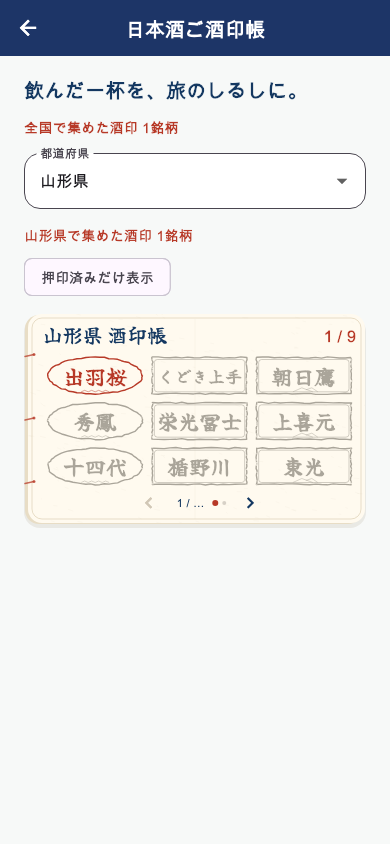
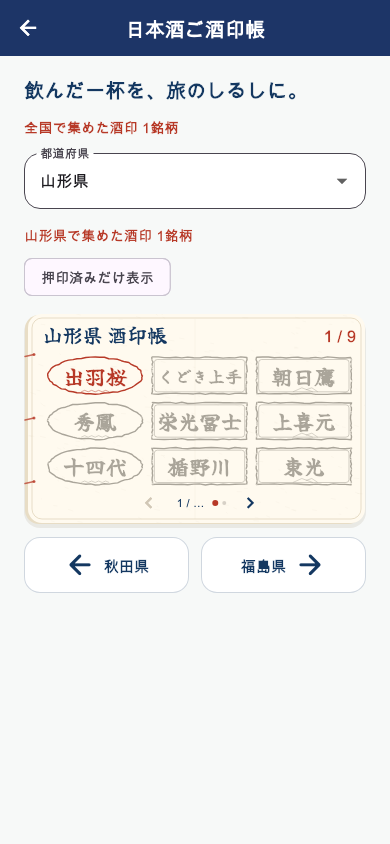
Add adjacent prefecture buttons below the stamp book

diff --git a/lib/presentation/new_home/sake_stamp_book_page.dart b/lib/presentation/new_home/sake_stamp_book_page.dart
@@ -201,11 +201,16 @@ class _SakeStampBookPageState extends State<SakeStampBookPage> {
           if (prefectures == null) {
             return const Center(child: CircularProgressIndicator());
           }
-          final selected = prefectures.firstWhere(
+          final ordered = [...prefectures]
+            ..sort((a, b) => a.code.compareTo(b.code));
+          final selected = ordered.firstWhere(
             (p) => p.code == (_selectedCode ?? widget.initialPrefectureCode),
             orElse: () =>
                 _previewPrefecture(prefectures, progress.brandIdsByPrefecture),
           );
+          final index = ordered.indexWhere((p) => p.code == selected.code);
+          final previous = index > 0 ? ordered[index - 1] : null;
+          final next = index + 1 < ordered.length ? ordered[index + 1] : null;
           final earned =
               progress.brandIdsByPrefecture[selected.code] ?? const {};
           if (_selectedCode != selected.code) {
@@ -288,6 +293,32 @@ class _SakeStampBookPageState extends State<SakeStampBookPage> {
                 recordsReady: ready,
                 onBrandTap: (brand) => _openBrand(context, brand),
               ),
+              Row(
+                children: [
+                  Expanded(
+                    child: _PrefectureStepButton(
+                      key: const ValueKey('stamp-previous-prefecture'),
+                      label:
+                          previous?.label(context) ??
+                          (_english(context) ? 'Previous' : '前の県'),
+                      onPressed: previous == null
+                          ? null
+                          : () => _select(previous.code),
+                    ),
+                  ),
+                  const SizedBox(width: 12),
+                  Expanded(
+                    child: _PrefectureStepButton(
+                      key: const ValueKey('stamp-next-prefecture'),
+                      label:
+                          next?.label(context) ??
+                          (_english(context) ? 'Next' : '次の県'),
+                      forward: true,
+                      onPressed: next == null ? null : () => _select(next.code),
+                    ),
+                  ),
+                ],
+              ),
               if (!ready) legend,
             ],
           );
@@ -322,4 +353,50 @@ class _NationwideStampCount extends StatelessWidget {
       ),
     );
   }
+}
+
+class _PrefectureStepButton extends StatelessWidget {
+  const _PrefectureStepButton({
+    super.key,
+    required this.label,
+    required this.onPressed,
+    this.forward = false,
+  });
+  final String label;
+  final VoidCallback? onPressed;
+  final bool forward;
+
+  @override
+  Widget build(BuildContext context) => OutlinedButton(
+    onPressed: onPressed,
+    style: OutlinedButton.styleFrom(
+      foregroundColor: japanMapNavy,
+      backgroundColor: Colors.white,
+      disabledForegroundColor: const Color(0xFFBAC1C4),
+      side: BorderSide(
+        color: japanMapNavy.withValues(alpha: onPressed == null ? .08 : .2),
+      ),
+      minimumSize: const Size(0, 56),
+      padding: const EdgeInsets.symmetric(horizontal: 12, vertical: 10),
+      shape: RoundedRectangleBorder(borderRadius: BorderRadius.circular(16)),
+      textStyle: Theme.of(context).textTheme.labelLarge?.copyWith(
+        fontSize: 15,
+        fontWeight: FontWeight.bold,
+      ),
+    ),
+    child: Row(
+      mainAxisAlignment: MainAxisAlignment.center,
+      children: [
+        if (!forward) ...[
+          const Icon(Icons.arrow_back_rounded, size: 32),
+          const SizedBox(width: 8),
+        ],
+        Flexible(child: Text(label, textAlign: TextAlign.center)),
+        if (forward) ...[
+          const SizedBox(width: 8),
+          const Icon(Icons.arrow_forward_rounded, size: 32),
+        ],
+      ],
+    ),
+  );
 }

diff --git a/test/presentation/new_home/sake_stamp_book_test.dart b/test/presentation/new_home/sake_stamp_book_test.dart
@@ -306,6 +306,89 @@ void main() {
     expect(tester.takeException(), isNull);
   });
 
+  testWidgets('下の左右ボタンで県ID順に移動し、選択欄・記憶と同期して両端で止まる', (tester) async {
+    final repo = _Catalog();
+    await open(
+      tester,
+      const SakeStampBookPage(initialPrefectureCode: 6),
+      repo: repo,
+      size: const Size(320, 568),
+      scale: 1.5,
+    );
+    final previous = find.byKey(const ValueKey('stamp-previous-prefecture'));
+    final next = find.byKey(const ValueKey('stamp-next-prefecture'));
+    await tester.scrollUntilVisible(
+      previous,
+      160,
+      scrollable: find.byType(Scrollable).first,
+    );
+    await tester.pumpAndSettle();
+    await tester.tap(previous);
+    await tester.pumpAndSettle();
+    expect(repo.codes.last, 5);
+    expect(find.text('秋田県 酒印帳'), findsOneWidget);
+    expect(
+      tester
+          .state<FormFieldState<int>>(
+            find.byKey(const ValueKey('stamp-prefecture-picker')),
+          )
+          .value,
+      5,
+    );
+    await tester.tap(next);
+    await tester.pumpAndSettle();
+    await tester.tap(next);
+    await tester.pumpAndSettle();
+    expect(repo.codes.last, 7);
+    expect(await SakeStampPreferences.lastPrefecture(), 7);
+    expect(tester.takeException(), isNull);
+    await preview(tester, 'prefecture-arrows-small');
+
+    await tester.pumpWidget(const SizedBox.shrink());
+    await open(tester, const SakeStampBookPage(initialPrefectureCode: 1));
+    expect(
+      tester
+          .widget<OutlinedButton>(
+            find.descendant(
+              of: previous,
+              matching: find.byType(OutlinedButton),
+            ),
+          )
+          .onPressed,
+      isNull,
+    );
+    expect(
+      tester
+          .widget<OutlinedButton>(
+            find.descendant(of: next, matching: find.byType(OutlinedButton)),
+          )
+          .onPressed,
+      isNotNull,
+    );
+    await tester.pumpWidget(const SizedBox.shrink());
+    await open(tester, const SakeStampBookPage(initialPrefectureCode: 47));
+    expect(
+      tester
+          .widget<OutlinedButton>(
+            find.descendant(of: next, matching: find.byType(OutlinedButton)),
+          )
+          .onPressed,
+      isNull,
+    );
+    expect(
+      tester
+          .widget<OutlinedButton>(
+            find.descendant(
+              of: previous,
+              matching: find.byType(OutlinedButton),
+            ),
+          )
+          .onPressed,
+      isNotNull,
+    );
+    expect(tester.takeException(), isNull);
+  });
+
   testWidgets('不正な記憶値は無視し、明示した県は前回の県より優先する', (tester) async {
     SharedPreferences.setMockInitialValues({
       SakeStampPreferences.prefectureKey: 999,
